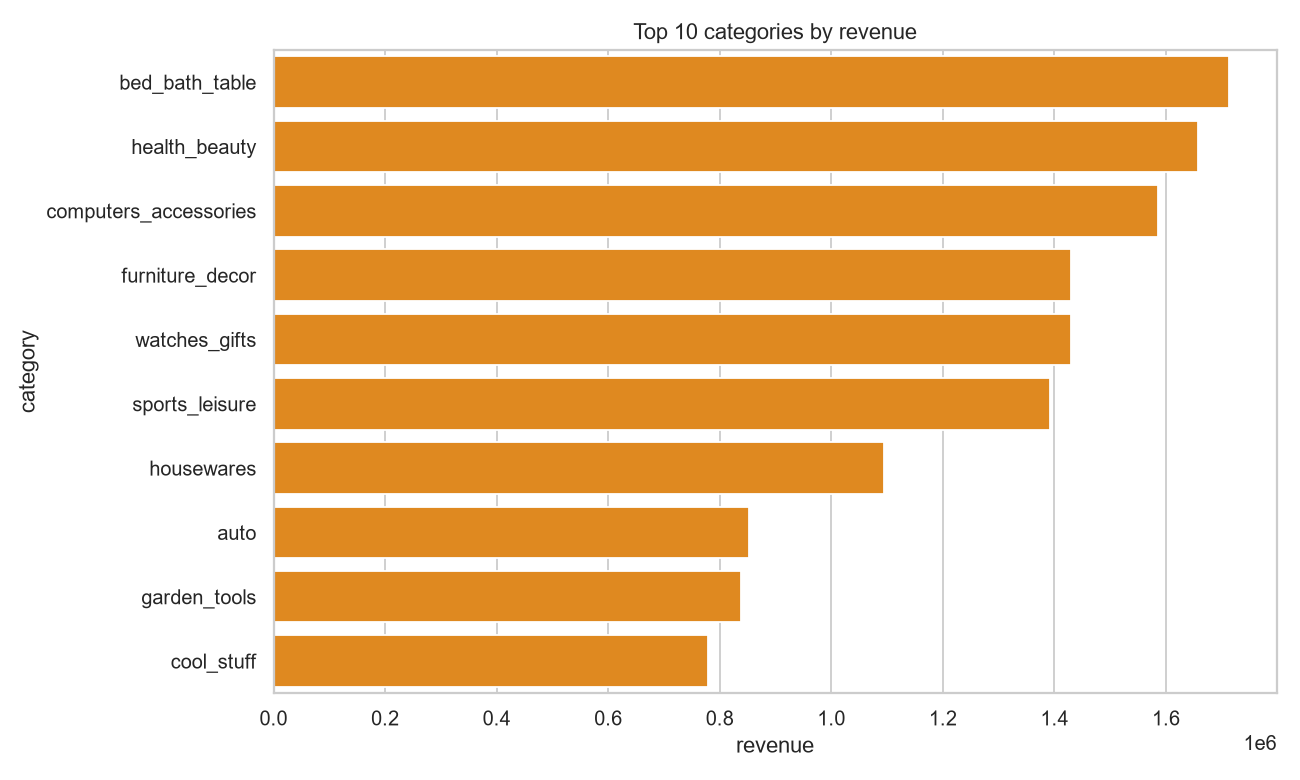
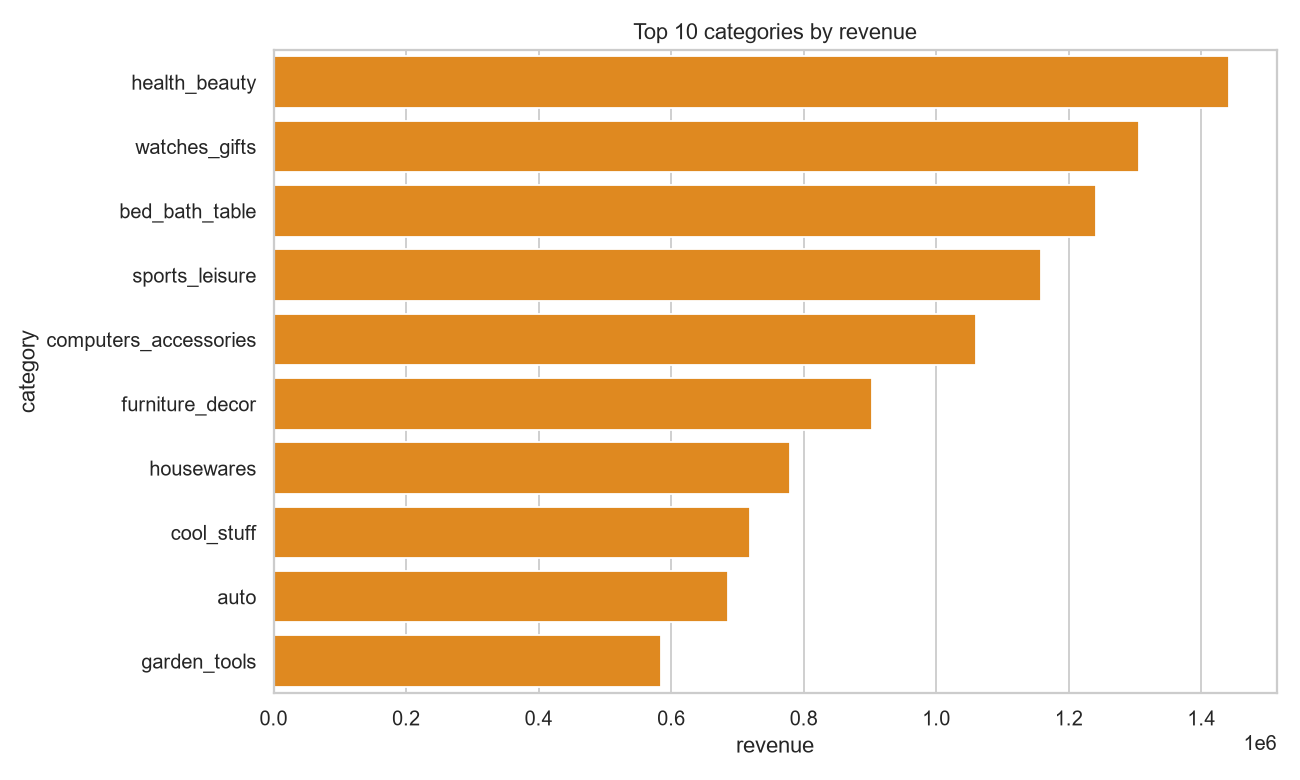
Fix revenue fan-out, precise effect-size stats, churn terminology, quality checks, pinned deps

diff --git a/dashboard/app.py b/dashboard/app.py
@@ -8,12 +8,13 @@ con = duckdb.connect(str(ROOT / "data" / "olist.duckdb"), read_only=True)
 
 st.set_page_config(page_title="Olist Product Analytics", layout="wide")
 st.title("Olist E-Commerce — Product Analytics Dashboard")
+st.caption("Data grain: one row per order (orders), one row per payment row (payments), one row per item (order_items). Revenue by category is computed at item grain to avoid join fan-out.")
 
 kpi = con.execute("""
 SELECT COUNT(DISTINCT o.order_id) AS orders,
        COUNT(DISTINCT c.customer_unique_id) AS customers,
        ROUND(SUM(p.payment_value),0) AS revenue,
-       ROUND(AVG(p.payment_value),2) AS aov
+       ROUND(SUM(p.payment_value)/COUNT(DISTINCT o.order_id),2) AS aov
 FROM orders o
 JOIN customers c ON c.customer_id = o.customer_id
 JOIN payments p ON p.order_id = o.order_id
@@ -22,7 +23,7 @@ c1, c2, c3, c4 = st.columns(4)
 c1.metric("Orders", f"{kpi.orders:,}")
 c2.metric("Customers", f"{kpi.customers:,}")
 c3.metric("Revenue", f"R$ {kpi.revenue:,.0f}")
-c4.metric("Avg payment", f"R$ {kpi.aov:,.2f}")
+c4.metric("AOV (per order)", f"R$ {kpi.aov:,.2f}")
 
 st.subheader("MAU & orders over time")
 mau = con.execute("""
@@ -46,12 +47,11 @@ st.bar_chart(states)
 st.subheader("Top categories")
 cat = con.execute("""
 SELECT COALESCE(t.product_category_name_english, pr.product_category_name, 'unknown') AS category,
-       ROUND(SUM(p.payment_value),0) AS revenue
+       ROUND(SUM(oi.price + oi.freight_value),0) AS revenue
 FROM order_items oi
 JOIN orders o ON o.order_id = oi.order_id
 JOIN products pr ON pr.product_id = oi.product_id
 LEFT JOIN category_translation t ON t.product_category_name = pr.product_category_name
-JOIN payments p ON p.order_id = o.order_id
 GROUP BY 1 ORDER BY revenue DESC LIMIT 10
 """).fetchdf().set_index("category")
 st.bar_chart(cat)

diff --git a/scripts/delivery_impact.py b/scripts/delivery_impact.py
@@ -1,0 +1,38 @@
+"""Observational group comparison: does delivery timeliness differ with review scores?
+Outputs: sample sizes, means, median, Welch t-test, 95% CI for mean difference, Cohen's d."""
+import duckdb
+import numpy as np
+from pathlib import Path
+from scipy import stats
+
+ROOT = Path(__file__).resolve().parents[1]
+con = duckdb.connect(str(ROOT / "data" / "olist.duckdb"), read_only=True)
+df = con.execute("""
+SELECT r.review_score,
+       CASE WHEN DATE_DIFF('day', CAST(o.order_estimated_delivery_date AS TIMESTAMP),
+                           o.order_delivered_customer_date) > 0
+            THEN 'late' ELSE 'on_time' END AS grp
+FROM orders o
+JOIN reviews r ON r.order_id = o.order_id
+WHERE o.order_status='delivered' AND o.order_delivered_customer_date IS NOT NULL
+""").fetchdf()
+
+on_time = df.loc[df.grp == "on_time", "review_score"]
+late = df.loc[df.grp == "late", "review_score"]
+
+n1, n2 = len(on_time), len(late)
+m1, m2 = on_time.mean(), late.mean()
+s1, s2 = on_time.std(ddof=1), late.std(ddof=1)
+t, p = stats.ttest_ind(on_time, late, equal_var=False)
+d = (m1 - m2) / np.sqrt((s1**2 + s2**2) / 2)                      # Cohen's d
+se = np.sqrt(s1**2 / n1 + s2**2 / n2)                               # SE of diff
+mean_diff = m1 - m2
+ci = (mean_diff - 1.96 * se, mean_diff + 1.96 * se)
+
+print(f"on-time: n={n1:,}  mean={m1:.3f}  median={on_time.median():.0f}  sd={s1:.3f}")
+print(f"late:    n={n2:,}  mean={m2:.3f}  median={late.median():.0f}  sd={s2:.3f}")
+print(f"mean difference (on-time - late): {mean_diff:.3f} points")
+print(f"95% CI for difference: [{ci[0]:.3f}, {ci[1]:.3f}]")
+print(f"Cohen's d: {d:.3f}  (|d| > 0.8 = large effect)")
+print(f"Welch t={t:.2f}, p={p:.2e}")
+print("Note: observational, not randomized; late delivery may proxy for problem segments.")

diff --git a/scripts/quality_checks.py b/scripts/quality_checks.py
@@ -1,0 +1,30 @@
+"""Data-quality checks: grain, null rates, key integrity on the Olist tables."""
+from pathlib import Path
+import duckdb
+
+ROOT = Path(__file__).resolve().parents[1]
+con = duckdb.connect(str(ROOT / "data" / "olist.duckdb"), read_only=True)
+
+checks = [
+    ("orders PK unique", "SELECT COUNT(*) = COUNT(DISTINCT order_id) FROM orders"),
+    ("customers PK unique", "SELECT COUNT(*) = COUNT(DISTINCT customer_id) FROM customers"),
+    ("no null order status", "SELECT COUNT(*) = 0 FROM orders WHERE order_status IS NULL"),
+    ("no null purchase ts", "SELECT COUNT(*) = 0 FROM orders WHERE order_purchase_timestamp IS NULL"),
+    ("no negative prices", "SELECT COUNT(*) = 0 FROM order_items WHERE price < 0"),
+    ("FK orders->customers ok", """SELECT NOT EXISTS (
+        SELECT 1 FROM orders o LEFT JOIN customers c ON c.customer_id=o.customer_id
+        WHERE c.customer_id IS NULL)"""),
+    ("payment sums ~= item sums +/-5%", """SELECT abs(
+        (SELECT SUM(payment_value) FROM payments) - (SELECT SUM(price+freight_value) FROM order_items)
+    ) / (SELECT SUM(payment_value) FROM payments) < 0.05"""),
+    ("reviews FK ok", """SELECT NOT EXISTS (
+        SELECT 1 FROM reviews r LEFT JOIN orders o ON o.order_id=r.order_id
+        WHERE o.order_id IS NULL)"""),
+]
+failed = 0
+for name, sql in checks:
+    ok = con.execute(sql).fetchone()[0]
+    print(("PASS" if ok else "FAIL"), "-", name)
+    failed += 0 if ok else 1
+print(f"\n{len(checks) - failed}/{len(checks)} checks passed")
+raise SystemExit(1 if failed else 0)

diff --git a/scripts/make_charts.py b/scripts/make_charts.py
@@ -66,14 +66,17 @@ plt.ylim(0, 5); plt.title("Average review score: late vs on-time delivery"); plt
 plt.savefig(CH / "05_delivery_review.png", dpi=130); plt.close()
 
 # 6. Top categories by revenue
+# Separate three metrics that are easy to conflate:
+# - All-time repeat rate: % of customers with >= 2 orders ever (~3.1%)
+# - Month-over-month retention: % of customers active in month m who buy again in m+1 (very low)
+# - Long-term repeat behaviour: % of customers with no second purchase ever (~97%)
 cat = con.execute("""
 SELECT COALESCE(t.product_category_name_english, pr.product_category_name, 'unknown') AS category,
-       SUM(p.payment_value) AS revenue
+       SUM(oi.price + oi.freight_value) AS revenue
 FROM order_items oi
 JOIN orders o ON o.order_id = oi.order_id
 JOIN products pr ON pr.product_id = oi.product_id
 LEFT JOIN category_translation t ON t.product_category_name = pr.product_category_name
-JOIN payments p ON p.order_id = o.order_id
 GROUP BY 1 ORDER BY revenue DESC LIMIT 10
 """).fetchdf()
 plt.figure(figsize=(10, 6))

diff --git a/README.md b/README.md
@@ -1,47 +1,57 @@
 # Olist E-Commerce — Product Analytics Case Study
 
-**One-line problem:** With ~99k real orders and near-zero repeat purchase, where is an e-commerce marketplace leaking revenue and customer satisfaction — and what should product fix first?
+**One-line problem:** With ~99k real orders and a tiny repeat rate, where is this e-commerce marketplace leaking revenue and customer satisfaction — and what should product fix first?
 
 ![Dashboard](charts/dashboard_screenshot.png)
 
+![Cohort Retention Heatmap](charts/03_cohort_heatmap.png)
+
 ## Key findings
 
-**Finding 1 — Retention is the biggest lever, and it's broken.**
-- Evidence: Only 3.1% of 96k customers ever buy twice (1.03 avg orders/customer); month-over-month customer churn is ~99.5%.
-- Business implication: A repeat-purchase/loyalty program likely creates more revenue than acquisition spend at the top of the funnel.
+**Finding 1 — Repeat purchase is extremely rare (not to be confused with monthly churn).**
+- Evidence: All-time repeat rate is only **3.1%** (1.03 avg orders/customer, ~96k customers). This is distinct from the *month-over-month* retention metric below.
+- Business implication: A repeat-purchase/loyalty program is likely the highest-ROI lever.
 
-**Finding 2 — Late delivery is strongly associated with low satisfaction.**
-- Evidence: On-time orders average 4.29/5 reviews vs 2.27/5 for late orders; Welch two-sample t-test t ≈ 101, p < 0.001 (n = ~96k).
-- Business implication: Fix delivery SLAs. *Limitation: this is an observational correlation — late delivery may proxy for problem regions/categories, not a pure causal effect.*
+**Finding 2 — Month-to-month retention is very low.**
+- Evidence: Of customers active in any given month in `sql/04_churn.sql`, typically **≥99%** do not place another order the following month.
+- Caveat: This is an e-commerce marketplace, where multi-month gaps between purchases can be normal behavior — interpret relative to peer benchmarks, not as an emergency on its own.
 
-**Finding 3 — Revenue is concentrated geographically and by category.**
-- Evidence: São Paulo alone generates R$6.0M of R$16.0M total revenue; bed/bath, health & beauty, and computers accessories are the top-3 categories.
-- Business implication: Targeted marketing + logistics in high-revenue regions/categories yields the highest ROI.
+**Finding 3 — Late delivery is strongly associated with lower review scores.**
+- Evidence: On-time orders average **4.29/5** vs **2.27/5** for late orders; medians 5 vs 1. Welch t-test: t≈101, p<0.001, n=~96k.
+- **Effect size & uncertainty:** mean difference = **2.02 points**, **95% CI [1.98, 2.06]**, **Cohen's d = 1.47** (very large).
+- Limitation: observational comparison — late delivery may proxy for problematic regions/categories. It does **not** establish causation.
+- Business implication: Prioritize delivery SLAs in hotspot regions; investigate geo/category confounders before attributing fully.
+
+**Finding 4 — Revenue is concentrated geographically and by category.**
+- Evidence: São Paulo ≈ R$6.0M of R$16.0M total; top categories (item-grain revenue): bed/bath & table, health/beauty, computers accessories.
+- Business implication: Logistics and marketing spend should over-index on SP and the top categories.
 
 ## Tools
 - SQL (DuckDB) · Python (pandas, scipy, seaborn, matplotlib) · Streamlit
 
 ## Methodology
-1. Loaded the public **Olist** dataset (~100k real orders, 2016–2018, `github.com/olist/work-at-olist-data`) into DuckDB.
-2. SQL: 8 analyses — order-status funnel, MAU engagement, monthly cohort retention, month-over-month churn, revenue/LTV, state & category segmentation, delivery performance, A/B-style group comparison.
-3. Python: t-test on delivery vs review scores; publication-ready charts; Streamlit dashboard.
+1. Downloaded the public **Olist** dataset (~100k real orders, 2016–2018) into `data/olist.duckdb`.
+2. SQL (`sql/`): 8 analyses — order-status funnel, MAU engagement, monthly cohort retention, month-over-month retention, revenue/LTV, state & category segmentation, delivery performance, observational delivery-impact comparison.
+3. Python (`scripts/`): quality checks, chart generation, scipy Welch t-test with effect size + 95% CI.
+4. **Data grain:** `orders` = one row per order; `order_items` = one row per item; `payments` = one row per payment attempt; `customers` = one row per anonymous customer id. Revenue by category is computed at **item grain** (`price + freight_value`) to avoid join fan-out between orders×payments.
 
 ## Run it yourself
 ```bash
 pip install -r requirements.txt
-python scripts/build_db.py      # load CSVs into DuckDB
-python scripts/run_sql.py       # run all SQL analyses -> results/
-python scripts/make_charts.py   # charts -> charts/
-python scripts/ab_test.py       # Welch t-test
-streamlit run dashboard/app.py  # interactive dashboard
+python scripts/build_db.py        # load CSVs into DuckDB
+python scripts/quality_checks.py  # 8/8 data-quality checks
+python scripts/run_sql.py         # run all SQL analyses -> results/
+python scripts/make_charts.py     # charts -> charts/
+python scripts/delivery_impact.py # t-test, effect size, CI
+streamlit run dashboard/app.py   # interactive dashboard
 ```
 
 ## Repository structure
 ```
-data/      raw CSVs + olist.duckdb (excluded from git — see README)
-sql/       01 funnel, 02 active users, 03 cohort retention, 04 churn,
-           05 revenue/LTV, 06 segments, 07 delivery vs reviews, 08 A/B test
-scripts/   build_db, run_sql, make_charts, ab_test
+data/      raw CSVs + olist.duckdb (excluded from git)
+sql/       01 funnel, 02 active users, 03 cohort retention, 04 month-over-month retention,
+           05 revenue/LTV, 06 segments, 07 delivery vs reviews, 08 delivery impact
+scripts/   build_db, run_sql, make_charts, delivery_impact, quality_checks
 charts/    generated charts + dashboard screenshot
 dashboard/ Streamlit app
 results/   CSV outputs of each query

diff --git a/executive_summary.md b/executive_summary.md
@@ -1,11 +1,18 @@
 # Executive Summary — Olist Product Analytics
 
-**Top 3 insights**
-1. Near-zero repeat purchase: only ~3.1% of customers buy twice; monthly churn ~99.5% → biggest growth lever is retention, not acquisition.
-2. Late delivery is strongly associated with lower review scores (4.29→2.27, Welch t-test p<0.001). Observational — likely mixed with geo/category effects.
-3. Revenue concentrated: São Paulo = R$6M of R$16M; top categories: bed/bath, health & beauty, computers accessories.
+**1. All-time repeat rate: ~3.1%.** Only 3.1% of ~96k customers ever buy twice. Distinct from
+month-over-month retention (below); do not conflate.
+
+**2. Month-over-month retention is very low (~≥99% of monthly actives buy 0 again the next month).**
+E-commerce context means multi-month gaps may be normal; treat relative to benchmarks.
+
+**3. Late delivery is strongly associated with lower reviews** (4.29 vs 2.27; diff 2.02 pts,
+95% CI [1.98, 2.06], Cohen's d 1.47, Welch p<0.001). Observational — not causal.
+
+**4. Revenue concentrated:** SP ≈ R$6M of R$16M; top categories: bed/bath, health & beauty,
+computers accessories (item-grain revenue).
 
 **Recommendations**
-- Post-purchase re-engagement program at 30/60/90 days.
-- Review carrier SLAs in late-delivery hotspots (regional + category effects).
-- Focus logistics/marketing spend on SP and top categories.
+- Retention program post-purchase (30/60/90-day re-engagement).
+- Prioritize carrier SLAs in late-delivery hotspots; investigate geo/category confounders first.
+- Over-index marketing + logistics on SP and top categories.
